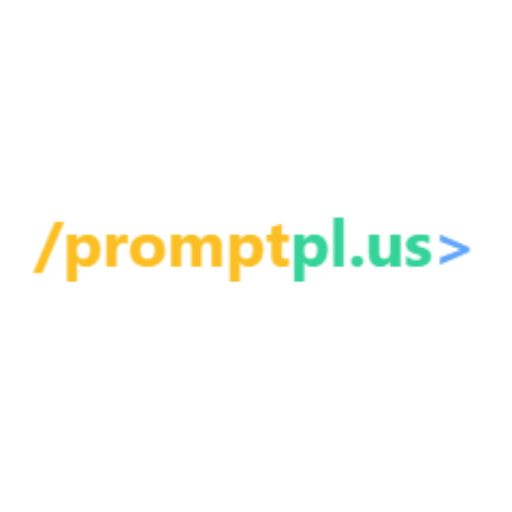
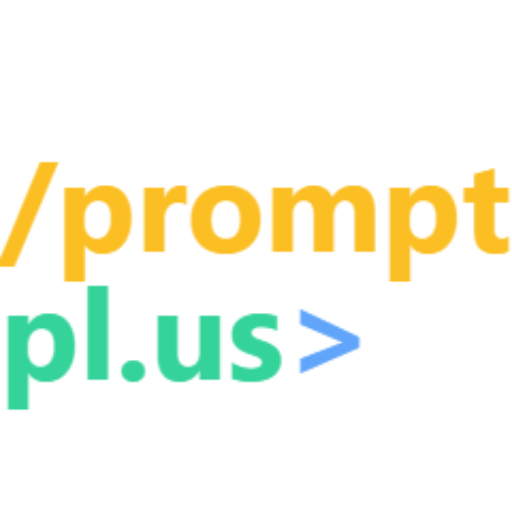
/promptpl.us>

Changed region(s): [[0.0, 0.3125, 1.0, 0.8125]]

diff --git a/templates/index.html b/templates/index.html
@@ -31,7 +31,7 @@
 
         </div>
         <div class="w-full md:w-1/2">
-            <img src="{{ url_for('static', path='/proto.png') }}" alt="promptpl.us/&gt;"
+            <img src="{{ url_for('static', path='/proto.png') }}" alt="/promptpl.us&gt;"
                 class="w-full h-auto rounded mb-4">
         </div>
     </div>
@@ -104,7 +104,7 @@
             </div>
             <div class="w-full md:w-1/2">
                 <h3 class="text-4xl font-bold mb-4">
-                    Our Vision:<br>Making AI accessible regardless of tech skill.
+                    Our Vision:<br>Making AI accessible for all.
                 </h3>
                 <p class="text-2xl mb-4">
                     We envision a world where data insights are accessible to all.
@@ -126,7 +126,7 @@
     <div class="container mx-auto text-center text-gray-600">
         <!-- <h2 class="text-4xl font-bold mb-4">About Us</h2> &lt; -->
         <p class="text-xl mb-16">
-            "promptpl.us/&gt; is committed to empowering businesses and individuals with cutting-edge solutions.
+            "/promptpl.us&gt; is committed to empowering businesses and individuals with cutting-edge solutions.
             We specialize in providing tailored solutions for businesses.<br>
             We are a team of passionate data scientists, engineers, and researchers who believe in the power of data
             and AI to transform businesses and lives.<br>

diff --git a/templates/logo.html b/templates/logo.html
@@ -55,13 +55,13 @@
     <div class="p-16">
         <div id="capture">
             <!-- flex justify-center border-2 rounded -->
-            <div class="py-16 flex justify-center text-yellow-400 text-2xl font-bold"
-                style="height: 192px; width: 192px">
+            <div class="py-8 text-yellow-400 text-5xl font-bold" style="height: 192px; width: 192px">
                 <!-- <span class="text-red-400 font-extrabold">&lt;</span> -->
                 <!-- <div> -->
                 <!-- class="mt-2" -->
                 <!-- <span class="text-blue-400">/</span> -->
-                /prompt<span class="text-green-400">pl.us</span><span class="text-blue-400">&gt;</span>
+                /prompt<span class="text-green-400"><br>
+                    pl.us</span><span class="text-blue-400">&gt;</span>
                 <!-- </a> -->
                 <!-- </div> -->
             </div>

diff --git a/templates/template.html b/templates/template.html
@@ -4,7 +4,7 @@
 <head>
     <meta charset="UTF-8">
     <meta name="viewport" content="width=device-width, initial-scale=1.0">
-    <title>promptpl.us/>Your personalised Generative AI Consultant</title>
+    <title>/promptpl.us> Your personalised Generative AI Consultant</title>
 
     <script src="{{ url_for('static', path='/aos.js') }}"></script>
 
@@ -76,11 +76,8 @@
             <div>.</div>
         </nav>
         <div class="p-5 container mx-auto text-center text-sm">
-            <!-- <p class="text-xl"> -->
             <a href="/privacypolicy">Privacy Policy</a> | <a href="/termsofservice">Terms of Service</a><br>
-            All Rights Reserved © 2023 promptpl.us/>
-            <!-- </p> -->
-            <!-- &lt;promptpl.us/&gt; -->
+            All Rights Reserved © 2023 /promptpl.us>
         </div>
     </footer>
 

diff --git a/static/output.css b/static/output.css
@@ -877,14 +877,14 @@ video {
   padding-right: 1.25rem;
 }
 
-.py-16 {
-  padding-top: 4rem;
-  padding-bottom: 4rem;
-}
-
 .py-2 {
   padding-top: 0.5rem;
   padding-bottom: 0.5rem;
+}
+
+.py-8 {
+  padding-top: 2rem;
+  padding-bottom: 2rem;
 }
 
 .pb-3 {
